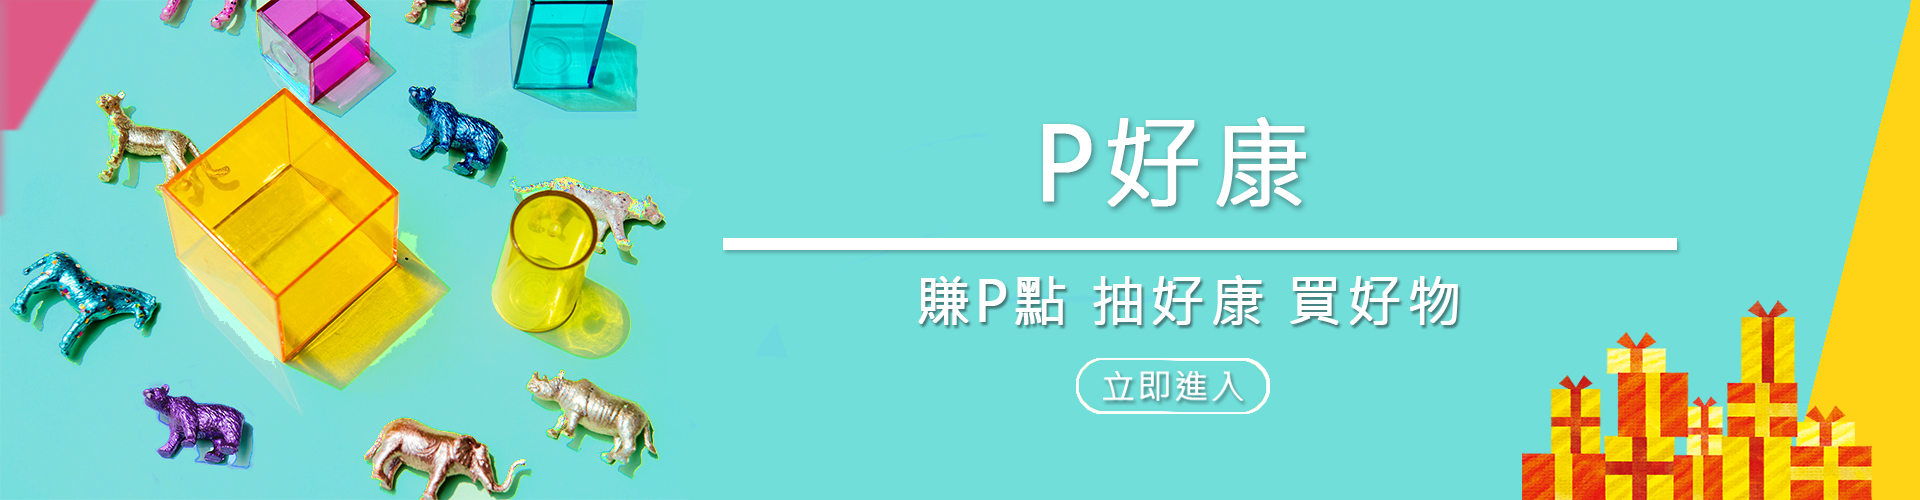
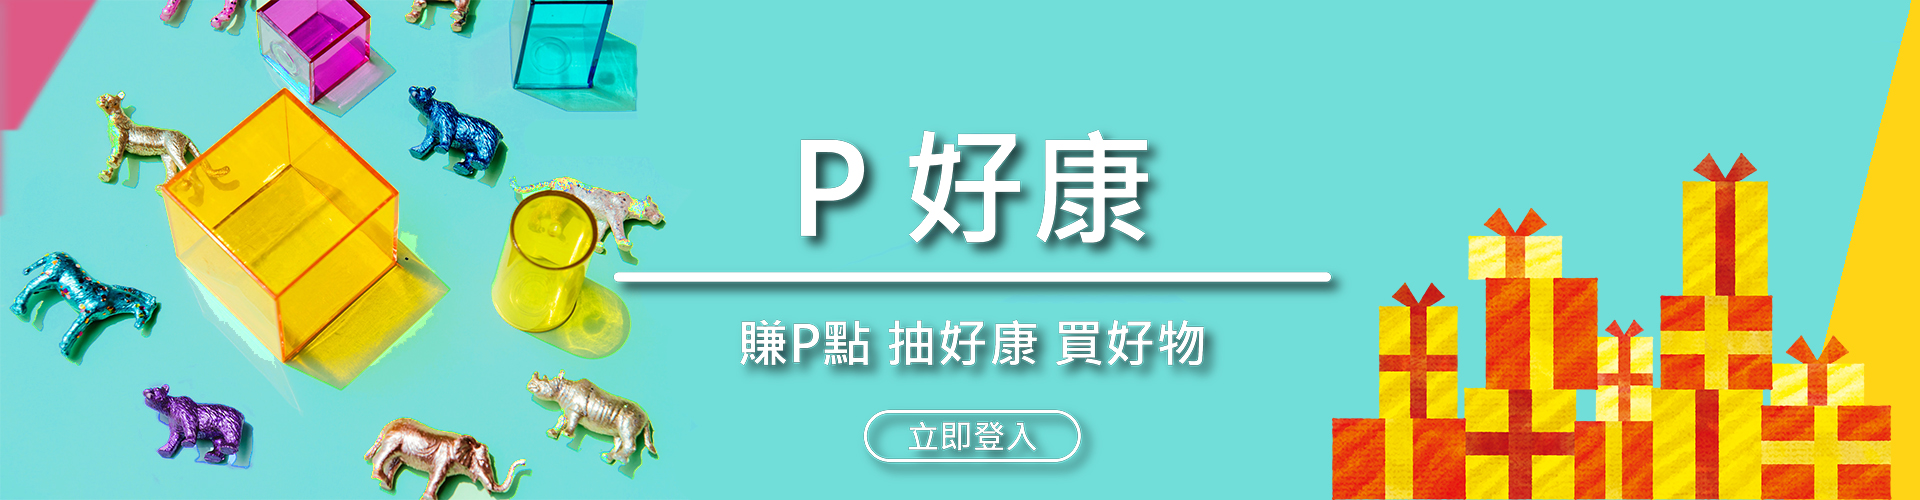
update for new index.html with pic

Changed region(s): [[0.3125, 0.24, 1.0, 1.0]]

diff --git a/css/style_v2.css b/css/style_v2.css
@@ -113,7 +113,7 @@ textarea:-ms-input-placeholder { color: #9e9e9e; }
 #header #mobile_search .header_search .search-menu a { font-size: 16px; font-weight: 500; }
 #header #mobile_search .header_search_close { float: right; font-size: 20px; }
 @media (max-width: 360px) { #header #mobile_search .header_search_close { margin-right: 5%; } }
-#header #header_top { position: relative; width: 92%; height: 44px; line-height: 44px; display: inline-block; font-weight: 500; text-align: right; 	/*
+#header #header_top { position: relative; width: 94%; height: 44px; line-height: 44px; display: inline-block; font-weight: 500; text-align: right; 	/*
 	@include breakpoint(max-width 1000px){
 	  width: 99%; }
 	*/ }
@@ -134,8 +134,11 @@ textarea:-ms-input-placeholder { color: #9e9e9e; }
 @media (max-width: 960px) { #header #header_top .pin_creator { margin-left: 0.5%; } }
 @media (max-width: 360px) { #header #header_top .pin_creator { margin-left: -2%; font-size: 14px; } }
 #header #header_top .pin_creator a { color: #ee5b8d; }
-#header #header_top .pin_gift { float: left; margin-left: 1%; width: 100px; border-radius: 40px; }
+#header #header_top .pin_gift { float: left; margin-left: 1%; width: 100px; }
+@media (max-width: 1200px) { #header #header_top .pin_gift { width: 90px; } }
+@media (max-width: 960px) { #header #header_top .pin_gift { width: 76px; } }
 #header #header_top .pin_gift a { color: #ffffff; }
+#header #header_top .pin_gift .btn_new { border-radius: 40px; }
 #header #header_top .header_search { float: left; position: relative; margin-left: 2.4%; height: 44px; line-height: 40px; }
 @media (max-width: 1024px) { #header #header_top .header_search { margin-left: 1%; } }
 @media (max-width: 800px) { #header #header_top .header_search { display: none; } }
@@ -151,7 +154,7 @@ textarea:-ms-input-placeholder { color: #9e9e9e; }
 #header #header_top .header_menu { height: 44px; }
 @media (max-width: 800px) { #header #header_top .header_menu { display: none; } }
 #header #header_top .header_menu a { display: inline-block; height: 44px; line-height: 40px; text-align: right; font-size: 16px; margin-left: 40px; vertical-align: middle; }
-@media (max-width: 1200px) { #header #header_top .header_menu a { margin-left: 20px; } }
+@media (max-width: 1200px) { #header #header_top .header_menu a { margin-left: 14px; } }
 @media (max-width: 1024px) { #header #header_top .header_menu a { margin-left: 10px; } }
 @media (max-width: 1000px) { #header #header_top .header_menu a { margin-left: 8px; } }
 @media (max-width: 960px) { #header #header_top .header_menu a { margin-left: 2px; } }
@@ -459,21 +462,19 @@ textarea:-ms-input-placeholder { color: #9e9e9e; }
 
 /* 主要內容區塊結束 */
 /* 20181116 加入P好康區塊開始 */
-#p_bannner { clear: both; overflow: hidden; margin-top: 64px; height: 100%; width: 1920px; font-weight: 500; }
+#p_bannner { clear: both; overflow: hidden; height: 100%; width: 1920px; font-weight: 500; }
 @media (max-width: 1919px) { #p_bannner { width: 100%; } }
 @media (max-width: 1024px) { #p_bannner { text-align: center; } }
 @media (max-width: 800px) { #p_bannner { margin-top: 44px; } }
 #p_bannner > div { display: block; }
 @media (max-width: 800px) { #p_bannner > div { display: block; width: 100%; font-size: 18px; } }
-#p_bannner #p_banner_carousel { height: 500px; width: 100%; overflow: hidden; }
-@media (max-width: 1024px) { #p_bannner #p_banner_carousel { height: 540px; } }
-@media (max-width: 800px) { #p_bannner #p_banner_carousel { height: 460px; } }
+#p_bannner #p_banner_carousel { position: relative; margin-top: 64px; height: 500px; width: 100%; overflow: hidden; scroll-behavior: smooth; }
+@media (max-width: 800px) { #p_bannner #p_banner_carousel { height: 460px; margin-top: 44px; } }
 @media (max-width: 600px) { #p_bannner #p_banner_carousel { height: 420px; } }
 @media (max-width: 500px) { #p_bannner #p_banner_carousel { height: 320px; } }
 @media (max-width: 400px) { #p_bannner #p_banner_carousel { height: 300px; } }
 @media (max-width: 360px) { #p_bannner #p_banner_carousel { height: 260px; } }
 #p_bannner #p_banner_carousel img { object-fit: cover; width: 100%; height: 500px; display: block; margin: auto; }
-@media (max-width: 1024px) { #p_bannner #p_banner_carousel img { height: 540px; } }
 @media (max-width: 800px) { #p_bannner #p_banner_carousel img { height: 460px; } }
 @media (max-width: 600px) { #p_bannner #p_banner_carousel img { height: 420px; } }
 @media (max-width: 500px) { #p_bannner #p_banner_carousel img { height: 320px; } }

diff --git a/index.html b/index.html
@@ -52,7 +52,7 @@
 		</div>
 		<!-- 20181116: 改字與加"P好康"開始 -->
 		<div class="pin_creator"><a href="https://www.pinpinbox.com/index/user/point/" title="立即購買Ｐ點贊助">購買Ｐ點</a></div>
-		<div class="pin_gift btn_new btn_pink"><a href="#p_bannner" title="賺P點 抽好康 買好物">Ｐ好康</a></div>
+		<div class="pin_gift"><a href="#p_bannner" title="賺P點 抽好康 買好物"><div class="btn_new btn_pink">Ｐ好康</div></a></div>
 		<!-- 20181116: 改字與加"P好康"結束 -->
 		<!-- 電腦版選單開始 -->
 		<div class="header_menu">
@@ -425,7 +425,6 @@
 		   </div>
 		  <!-- 分類區塊結束 -->
 	  </div>
-  
   <!-- //20181116 P好康區塊開始 -->
   <div id="p_bannner">
     <div id="p_banner_carousel" >
